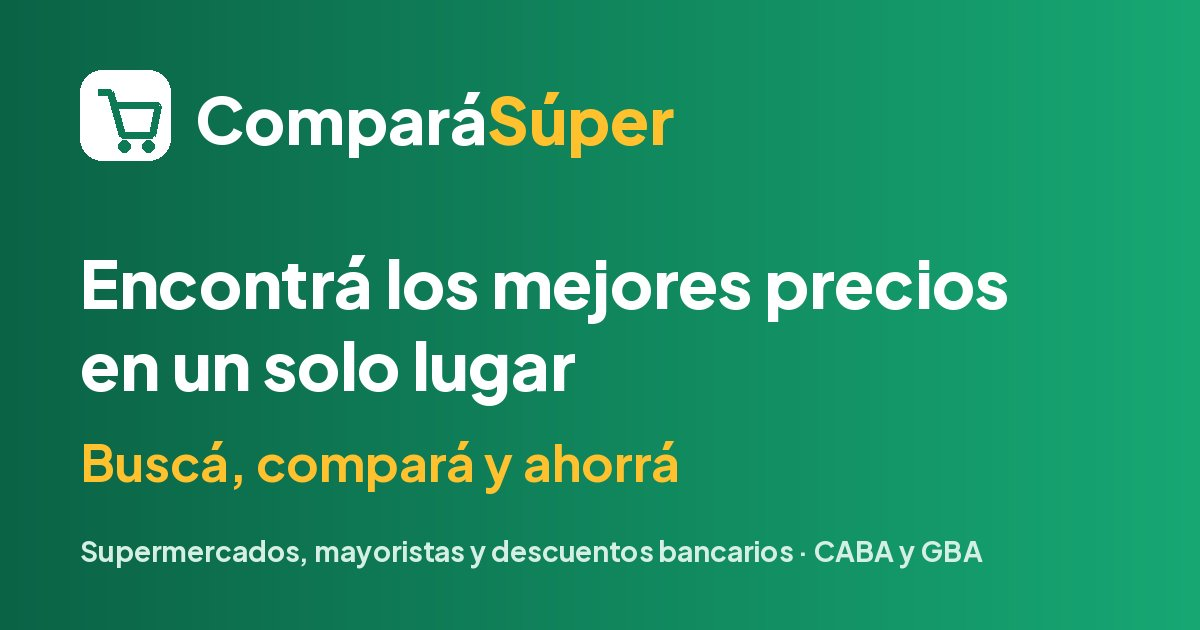
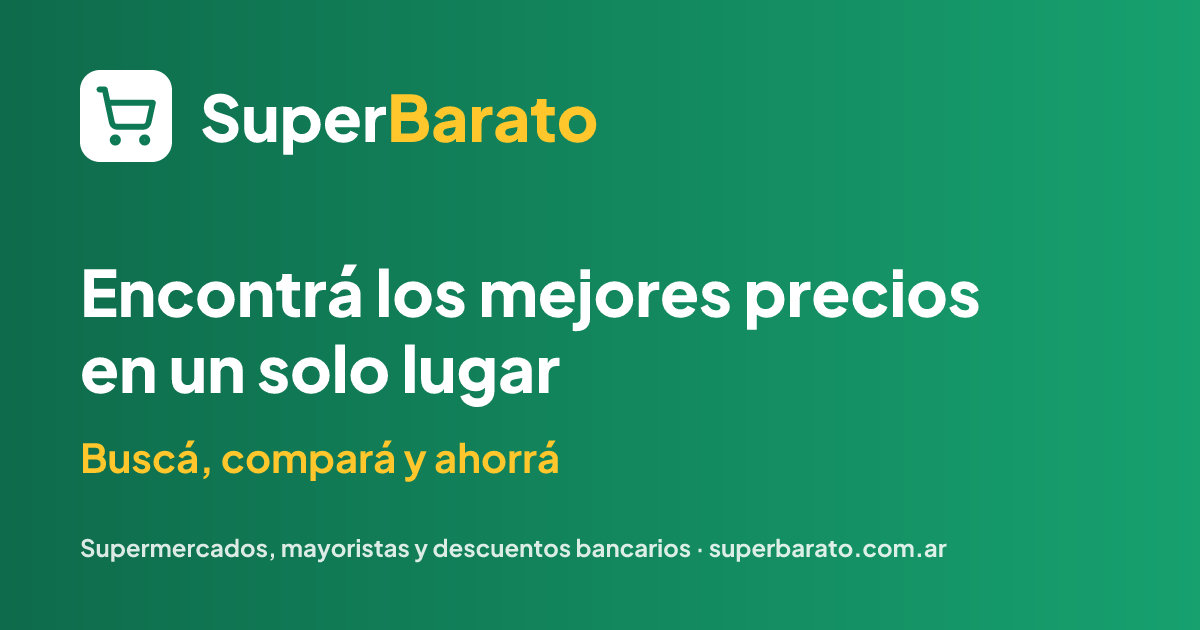
Nuevo nombre SuperBarato y dominio superbarato.com.ar (listo para cuando el dominio esté activo)
Claude-Session: https://claude.ai/code/session_01BWp7WRn68nVfGxPRr3xFBF

diff --git a/site/js/app.js b/site/js/app.js
@@ -1,4 +1,4 @@
-/* ComparáSúper — toda la web en un archivo. Lee site/data/*.json (los arma scripts/build_data.py) y site/config.json. */
+/* SuperBarato — toda la web en un archivo. Lee site/data/*.json (los arma scripts/build_data.py) y site/config.json. */
 "use strict";
 const $ = (s, el = document) => el.querySelector(s);
 const $$ = (s, el = document) => [...el.querySelectorAll(s)];
@@ -856,7 +856,7 @@ function ticketTabla(lineas, res, esLista) {
 }
 
 /* ---------- LISTA DE COMPRAS COMPARTIDA DESDE OTRA APP O PEGADA ----------
-   Con la web instalada, en "Compartir" de WhatsApp, Notas, etc. aparece ComparáSúper (Web Share Target).
+   Con la web instalada, en "Compartir" de WhatsApp, Notas, etc. aparece SuperBarato (Web Share Target).
    Cada renglón ("2 leche", "yerba x1kg", "• aceite") se busca entre los productos. */
 function partirLista(t) {
   return (t || "").split(/\n|,|;|•|·|- (?=\S)/).map(x => x.replace(/^[\s\-*–—>✅☑🔲⬜\d.)]*(?=\D)/u, m => (/^\s*\d+\s*$/.test(m) ? m : m.replace(/[\d.)]/g, ""))).trim()).filter(x => x.length >= 3)
@@ -1085,7 +1085,7 @@ function vNosotros() {
   ];
   $("#view").innerHTML = `<div class="wrap legal nosotros"><section class="blk first">
     <h1>👋 Conocenos</h1>
-    <p>ComparáSúper nació con una idea simple: que hacer las compras del súper cueste menos. Juntamos en un solo lugar los precios de los supermercados y mayoristas, sus ofertas y los descuentos de bancos, billeteras y tarjetas de cada día, para que sepas <b>dónde, qué día y cómo pagar</b> para gastar menos.</p>
+    <p>SuperBarato nació con una idea simple: que hacer las compras del súper cueste menos. Juntamos en un solo lugar los precios de los supermercados y mayoristas, sus ofertas y los descuentos de bancos, billeteras y tarjetas de cada día, para que sepas <b>dónde, qué día y cómo pagar</b> para gastar menos.</p>
     <p>Es un <b>proyecto independiente</b>: no tiene relación comercial con los comercios, las apps ni los bancos que aparecen, y ningún comercio paga para salir primero.</p>
     <h2 id="s-acerca">Acerca de</h2>
     <ul>
@@ -1117,11 +1117,11 @@ function vLegal() {
   const contacto = R.email ? `escribiendo a <a href="mailto:${esc(R.email)}">${esc(R.email)}</a> o desde <a href="#sugerencias">Contacto y sugerencias</a> (aclarando que es un pedido sobre tus datos: no se publica)` : `desde <a href="#sugerencias">Contacto y sugerencias</a>, aclarando que es un pedido sobre tus datos (esos mensajes no se publican)`;
   $("#view").innerHTML = `<div class="wrap legal"><section class="blk first">
     <h1>📄 Términos de uso y privacidad</h1><p class="sub">Última actualización: 15 de noviembre de 2026.</p>
-    <h2>Qué es ComparáSúper</h2>
-    <p>ComparáSúper es un comparador independiente y gratuito de precios de supermercados, mayoristas y tiendas online de ${enAMBA() ? "CABA y GBA" : esc(provNombre(PROV))}. <b>No vende productos</b>, no cobra comisiones y no tiene relación comercial con los comercios, bancos ni billeteras que aparecen. Usar la página implica aceptar estos términos.</p>
+    <h2>Qué es SuperBarato</h2>
+    <p>SuperBarato es un comparador independiente y gratuito de precios de supermercados, mayoristas y tiendas online de ${enAMBA() ? "CABA y GBA" : esc(provNombre(PROV))}. <b>No vende productos</b>, no cobra comisiones y no tiene relación comercial con los comercios, bancos ni billeteras que aparecen. Usar la página implica aceptar estos términos.</p>
     <h2>Precios, descuentos y comparaciones</h2>
     <ul>
-      <li>Los precios de las sucursales salen de la base oficial <b>SEPA (Precios Claros)</b>, que las cadenas informan al Estado nacional. Mostramos el precio más común entre las sucursales de la zona; en tu sucursal puede ser distinto. Esos datos los publica la Subsecretaría de Defensa del Consumidor y Lealtad Comercial con licencia <a href="https://creativecommons.org/licenses/by/4.0/deed.es" target="_blank" rel="noopener">CC BY 4.0</a>; ComparáSúper los procesa, así que lo que mostramos no es la información oficial tal cual.</li>
+      <li>Los precios de las sucursales salen de la base oficial <b>SEPA (Precios Claros)</b>, que las cadenas informan al Estado nacional. Mostramos el precio más común entre las sucursales de la zona; en tu sucursal puede ser distinto. Esos datos los publica la Subsecretaría de Defensa del Consumidor y Lealtad Comercial con licencia <a href="https://creativecommons.org/licenses/by/4.0/deed.es" target="_blank" rel="noopener">CC BY 4.0</a>; SuperBarato los procesa, así que lo que mostramos no es la información oficial tal cual.</li>
       <li>Los precios online salen de las tiendas web de cada cadena y no incluyen el envío; cuando armás tu compra, lo sumamos aparte si la tienda lo informa.</li>
       <li>Los descuentos con bancos, billeteras y tarjetas los relevamos de las páginas oficiales y de notas periodísticas; cada uno indica su fuente y la fecha en que se verificó. Tienen topes, días y condiciones que pueden cambiar sin aviso.</li>
       <li>Las comparaciones (cuál es más barato, el <a href="#ranking">ranking de cadenas</a>, Tu inflación) se calculan con esos datos y con el método que explicamos en cada sección. Son información, no una recomendación de compra.</li>
@@ -1146,7 +1146,7 @@ function vLegal() {
     <p class="sub">El titular de los datos personales tiene la facultad de ejercer el derecho de acceso a los mismos en forma gratuita a intervalos no inferiores a seis meses, salvo que se acredite un interés legítimo al efecto conforme lo establecido en el artículo 14, inciso 3 de la Ley N° 25.326. La Agencia de Acceso a la Información Pública, en su carácter de Órgano de Control de la Ley N° 25.326, tiene la atribución de atender las denuncias y reclamos que interpongan quienes resulten afectados en sus derechos por incumplimiento de las normas vigentes en materia de protección de datos personales.</p>
     <h2>Otras condiciones</h2>
     <ul>
-      <li>El código y el diseño de ComparáSúper son del proyecto. Los datos de precios de SEPA se pueden reutilizar según su licencia CC BY 4.0, citando la fuente.</li>
+      <li>El código y el diseño de SuperBarato son del proyecto. Los datos de precios de SEPA se pueden reutilizar según su licencia CC BY 4.0, citando la fuente.</li>
       <li>Podemos actualizar estos términos; la fecha de arriba indica la última versión.</li>
       <li>Estos términos se rigen por las leyes de la República Argentina.</li>
     </ul>
@@ -1655,7 +1655,7 @@ function shareText(items, bst, day) {
     t += `\n\n💡 Lo más barato el ${DIAS[day].toLowerCase()}: todo en ${optName(bst)}, ${money(bst.total).replace(" ", " ")}`;
     if (bst.pay.promo) t += `\n💳 Pagando con ${medioName(bst.pay.promo)} (${bst.pay.promo.pct}%) — cómo pagar: ${pagoTxt(bst.pay.promo)}`;
   }
-  return t + `\n\nPrecios de ComparáSúper del ${D.updated.split("-").reverse().join("/")}; pueden cambiar.`;
+  return t + `\n\nPrecios de SuperBarato del ${D.updated.split("-").reverse().join("/")}; pueden cambiar.`;
 }
 function siteBase() { if (CFG.sitio_url) return CFG.sitio_url.replace(/#.*$/, ""); return location.href.replace(/#.*$/, ""); }
 const shareLink = items => siteBase() + "#l-" + items.map(({ p, qty }) => `${p.id}-${qty}`).join("-");
@@ -2150,7 +2150,7 @@ function modalNews() {
       <label class="fl">Correo electrónico<input type="email" id="nmail" required autocomplete="email" placeholder="tu@correo.com"></label>
       <fieldset><legend>Quiero recibir</legend>${temas.map(([v, t], i) => `<label class="ck"><input type="checkbox" name="tema" value="${v}" ${i < 2 ? "checked" : ""}> ${t}</label>`).join("")}</fieldset>
       <label class="fl">Zona<select class="sel" id="nzona">${(enAMBA() ? ["CABA", "GBA Norte", "GBA Oeste", "GBA Sur", "La Plata y alrededores"] : [provNombre(PROV)]).concat(PROVINCIAS.map(x => x.name).filter(n => !["Ciudad de Buenos Aires", provNombre(PROV)].includes(n))).map(z => `<option>${esc(z)}</option>`).join("")}</select></label>
-      <label class="ck"><input type="checkbox" id="nok" required> Acepto recibir correos de ComparáSúper y que mi correo se guarde en una planilla de Google para eso. No lo compartimos con nadie. <a href="#legal" data-close>Más detalles</a>.</label>
+      <label class="ck"><input type="checkbox" id="nok" required> Acepto recibir correos de SuperBarato y que mi correo se guarde en una planilla de Google para eso. No lo compartimos con nadie. <a href="#legal" data-close>Más detalles</a>.</label>
       <div class="ferr" id="nerr" role="alert"></div>
       <div class="mfoot"><button type="button" class="btn sec sm" data-close>Cancelar</button><button class="btn" type="submit">Registrarme</button></div>
     </form>`);
@@ -2332,7 +2332,7 @@ function anunciarVista(mover) {
   const h = location.hash.slice(1) || "inicio"; if (h.startsWith("p-")) return;
   const v = h.split(/[-?=]/)[0], h1 = $("#view h1");
   const nom = h1 ? h1.textContent.replace(/^[^\p{L}\d]+/u, "").trim() : "";
-  document.title = v === "inicio" || !nom ? TITULO0 : `${nom} · ComparáSúper`;
+  document.title = v === "inicio" || !nom ? TITULO0 : `${nom} · SuperBarato`;
   const quieto = /^(INPUT|TEXTAREA|SELECT)$/.test((document.activeElement || {}).tagName || "") || !$("#drawer").hidden || !$("#modal").hidden;
   if (mover && v !== VISTA_ANT && h1 && !quieto) { h1.tabIndex = -1; h1.focus({ preventScroll: true }); }
   if (h1) VISTA_ANT = v;
@@ -2624,7 +2624,7 @@ const saveFav = () => LS.set("cs_fav", [...FAV]);
 /* ---------- bienvenida y configuración en 3 preguntas ---------- */
 function modalBienvenida() {
   LS.set("cs_bienvenida", 1);
-  openModal(`<div class="wel"><div class="wic">👋</div><h2>¡Bienvenido a ComparáSúper!</h2>
+  openModal(`<div class="wel"><div class="wic">👋</div><h2>¡Bienvenido a SuperBarato!</h2>
     <p>Compará el mismo producto en ${D.stores.length} supermercados y mayoristas, con sus ofertas y los descuentos de tu banco o billetera según el día.</p>
     <p class="sub">Si contestás 3 preguntas (menos de un minuto), te mostramos los precios y descuentos que te sirven a vos.</p>
     <div class="wbtns"><button class="btn" id="wconf">⚙ Configurar en 3 preguntas</button><button class="btn sec" id="wtour">🧭 Ver la guía rápida</button><button class="linkbtn" data-close>Ahora no</button></div></div>`);
@@ -2799,7 +2799,7 @@ function modalAgendar(id) {
   const desc = `${pr.pct ? pr.pct + "% de descuento" : pr.cuotas + " cuotas"} · ${topeTxt(pr)}. Cómo pagar: ${pagoTxt(pr)}. Vigente hasta el ${pr.hasta.split("-").reverse().join("/")}. Más info: ${(CFG.sitio_url || location.href.split("#")[0])}#pagos`;
   const rrule = `RRULE:FREQ=WEEKLY;BYDAY=${pr.dias.map(i => ICSD[i]).join(",")};UNTIL=${hasta}`;
   const gurl = `https://calendar.google.com/calendar/render?action=TEMPLATE&text=${encodeURIComponent("🛒 " + tit)}&dates=${ymd(d0)}/${ymd(d1)}&details=${encodeURIComponent(desc)}&recur=${encodeURIComponent(rrule)}`;
-  const ics = ["BEGIN:VCALENDAR", "VERSION:2.0", "PRODID:-//ComparaSuper//ES", "BEGIN:VEVENT", `UID:${pr.id}-${Date.now()}@comparasuper`, `DTSTAMP:${new Date().toISOString().replace(/[-:]/g, "").slice(0, 15)}Z`,
+  const ics = ["BEGIN:VCALENDAR", "VERSION:2.0", "PRODID:-//SuperBarato//ES", "BEGIN:VEVENT", `UID:${pr.id}-${Date.now()}@superbarato.com.ar`, `DTSTAMP:${new Date().toISOString().replace(/[-:]/g, "").slice(0, 15)}Z`,
     `DTSTART;VALUE=DATE:${ymd(d0)}`, `DTEND;VALUE=DATE:${ymd(d1)}`, rrule, `SUMMARY:🛒 ${tit.replace(/[,;]/g, " ")}`, `DESCRIPTION:${desc.replace(/[,;]/g, " ").replace(/\n/g, "\\n")}`,
     "BEGIN:VALARM", "TRIGGER:-PT15H", "ACTION:DISPLAY", "DESCRIPTION:Hoy hay descuento en el súper", "END:VALARM", "END:VEVENT", "END:VCALENDAR"].join("\r\n");
   const url = URL.createObjectURL(new Blob([ics], { type: "text/calendar" }));
@@ -2888,12 +2888,12 @@ function vComparar() {
 /* ---------- instalar como app ---------- */
 let INSTALL = null;
 addEventListener("beforeinstallprompt", e => { e.preventDefault(); INSTALL = e; $$(".inst").forEach(x => (x.hidden = false)); });
-addEventListener("appinstalled", () => { INSTALL = null; $$(".inst").forEach(x => (x.hidden = true)); toast("¡Listo! ComparáSúper quedó instalada"); });
+addEventListener("appinstalled", () => { INSTALL = null; $$(".inst").forEach(x => (x.hidden = true)); toast("¡Listo! SuperBarato quedó instalada"); });
 const yaInstalada = () => matchMedia("(display-mode: standalone)").matches || navigator.standalone;
 async function instalar() {
   if (INSTALL) { INSTALL.prompt(); await INSTALL.userChoice; INSTALL = null; return; }
   const ios = /iphone|ipad|ipod/i.test(navigator.userAgent);
-  openModal(`<h2>📲 Instalar ComparáSúper</h2><p>Queda un ícono en la pantalla de tu celular, abre más rápido y podés ver tu carrito aunque no tengas señal en el súper.</p>
+  openModal(`<h2>📲 Instalar SuperBarato</h2><p>Queda un ícono en la pantalla de tu celular, abre más rápido y podés ver tu carrito aunque no tengas señal en el súper.</p>
     ${ios ? `<ol class="steps"><li>Abrí esta página en <b>Safari</b>.</li><li>Tocá el botón <b>Compartir</b> (el cuadrado con la flecha hacia arriba).</li><li>Elegí <b>«Agregar a inicio»</b> y tocá <b>Agregar</b>.</li></ol>`
       : `<ol class="steps"><li>Abrí el menú del navegador (los tres puntitos <b>⋮</b>).</li><li>Tocá <b>«Instalar app»</b> o <b>«Agregar a la pantalla principal»</b>.</li><li>Confirmá con <b>Instalar</b>.</li></ol>`}
     <div class="mfoot"><span></span><button class="btn" data-close>Entendido</button></div>`);
@@ -2972,7 +2972,7 @@ async function botAsk(q) { BOT.msgs.push({ who: "u", html: esc(q) }); botRender(
 function botOpen(open) {
   $("#chat").hidden = !open; $("#botbtn").setAttribute("aria-expanded", open);
   if (open) ovOpen("chat", () => botOpen(false)); else ovDone("chat");
-  if (open && !BOT.msgs.length) { BOT.msgs.push({ who: "b", html: "¡Hola! Soy el asistente de ComparáSúper. Te ayudo a encontrar precios, descuentos por día y banco, y a usar la página. ¿Qué necesitás?" }); botRender(); }
+  if (open && !BOT.msgs.length) { BOT.msgs.push({ who: "b", html: "¡Hola! Soy el asistente de SuperBarato. Te ayudo a encontrar precios, descuentos por día y banco, y a usar la página. ¿Qué necesitás?" }); botRender(); }
   if (open) $("#chq").focus();
 }
 $("#botbtn").onclick = () => botOpen($("#chat").hidden);

diff --git a/site/index.html b/site/index.html
@@ -3,20 +3,20 @@
 <head>
 <meta charset="utf-8">
 <meta name="viewport" content="width=device-width, initial-scale=1">
-<title>ComparáSúper · Precios de supermercados</title>
+<title>SuperBarato · Precios de supermercados</title>
 <meta name="google-site-verification" content="24iJAJs0mW4ACd0ENeoT0kQnPo67h7M31oHgKuBHy18">
 <meta name="description" content="Compará precios de supermercados, mayoristas y apps de todo el país: el mismo producto en cada comercio, en el local y online, ofertas vigentes y descuentos por medio de pago de cada día.">
 <meta name="theme-color" content="#0e7a55">
 <link rel="manifest" href="manifest.webmanifest">
 <link rel="apple-touch-icon" href="img/icon-192.png">
 <meta name="apple-mobile-web-app-capable" content="yes">
-<meta name="apple-mobile-web-app-title" content="ComparáSúper">
+<meta name="apple-mobile-web-app-title" content="SuperBarato">
 <meta property="og:type" content="website">
-<meta property="og:site_name" content="ComparáSúper">
-<meta property="og:title" content="ComparáSúper · Encontrá los mejores precios en un solo lugar">
+<meta property="og:site_name" content="SuperBarato">
+<meta property="og:title" content="SuperBarato · Encontrá los mejores precios en un solo lugar">
 <meta property="og:description" content="Compará precios de supermercados y mayoristas de todas las provincias, ofertas y descuentos de bancos y billeteras de cada día.">
-<meta property="og:url" content="https://brunogagna9-stack.github.io/ComparaSuper/">
-<meta property="og:image" content="https://brunogagna9-stack.github.io/ComparaSuper/img/og.png">
+<meta property="og:url" content="https://superbarato.com.ar/">
+<meta property="og:image" content="https://superbarato.com.ar/img/og.png">
 <meta name="twitter:card" content="summary_large_image">
 <script>try{var t=JSON.parse(localStorage.getItem("cs_tema"));if(t)document.documentElement.dataset.theme=t}catch(e){}</script>
 <link rel="preload" href="fonts/plus-jakarta-sans-latin-wght-normal.woff2" as="font" type="font/woff2" crossorigin>
@@ -32,7 +32,7 @@
 <div id="pocos" class="demo" hidden></div>
 <header class="site">
   <div class="hin">
-    <a class="logo" href="#inicio" aria-label="ComparáSúper, ir al inicio"><span class="lg-ic" aria-hidden="true">🛒</span><span class="lt">Compará<span>Súper</span></span></a>
+    <a class="logo" href="#inicio" aria-label="SuperBarato, ir al inicio"><span class="lg-ic" aria-hidden="true">🛒</span><span class="lt">Super<span>Barato</span></span></a>
     <form class="hsearch" id="hform" role="search">
       <svg viewBox="0 0 24 24" aria-hidden="true"><circle cx="11" cy="11" r="7"/><path d="m20 20-3.5-3.5"/></svg>
       <input id="q" type="search" placeholder="Buscá: leche, yerba, aceite…" aria-label="Buscar productos" autocomplete="off" role="combobox" aria-expanded="false" aria-controls="qsug" aria-autocomplete="list">
@@ -76,15 +76,15 @@
 
 <footer class="site">
   <div class="fin">
-    <div class="fbrand"><div class="flogo">Compará<span>Súper</span></div>
+    <div class="fbrand"><div class="flogo">Super<span>Barato</span></div>
       <p>Compará precios de supermercados y mayoristas de todo el país, con sus ofertas y los descuentos de tu banco o billetera de cada día.</p>
       <p><button class="btn sm" data-news><svg class="ic" aria-hidden="true"><use href="#i-mail"/></svg> Recibir novedades por correo</button></p></div>
-    <nav aria-label="ComparáSúper"><h4>ComparáSúper</h4>
+    <nav aria-label="SuperBarato"><h4>SuperBarato</h4>
       <a href="#nosotros">Conocenos</a><a href="#nosotros-acerca">Acerca de</a><a href="#como">Cómo funciona</a><a href="#nosotros-datos">De dónde salen los precios</a><a href="#nosotros-preguntas">Preguntas frecuentes</a></nav>
     <nav aria-label="Ayuda y legales"><h4>Ayuda y legales</h4>
       <a href="#sugerencias">Contacto y sugerencias</a><a href="#legal">Términos de uso</a><a href="#legal-privacidad">Política de privacidad</a><a href="#nosotros-aviso">Aviso sobre precios</a></nav>
   </div>
-  <div class="fbot"><span>© <span id="year"></span> ComparáSúper · Proyecto independiente, sin relación comercial con los comercios, las apps ni los bancos.</span>
+  <div class="fbot"><span>© <span id="year"></span> SuperBarato · Proyecto independiente, sin relación comercial con los comercios, las apps ni los bancos.</span>
     <span class="flic">Precios de sucursales: <a href="https://datos.gob.ar/dataset/produccion-precios-claros---base-sepa" target="_blank" rel="noopener">Precios Claros – Base SEPA</a>, Subsecretaría de Defensa del Consumidor y Lealtad Comercial, con licencia <a href="https://creativecommons.org/licenses/by/4.0/deed.es" target="_blank" rel="noopener">CC BY 4.0</a>. Los procesamos (precio más común por zona, cruce por código de barras) y no son datos oficiales tal como los mostramos.</span><span id="fupd"></span></div>
 </footer>
 
@@ -123,7 +123,7 @@
   <button class="fab bot" id="botbtn" type="button" aria-controls="chat" aria-expanded="false" title="Asistente virtual"><span class="fi" aria-hidden="true"><svg class="ic" aria-hidden="true"><use href="#i-bot"/></svg></span><span class="ft">Asistente virtual</span></button>
 </div>
 <section class="chat" id="chat" role="dialog" aria-label="Asistente virtual" hidden>
-  <div class="chh"><span class="fi"><svg class="ic" aria-hidden="true"><use href="#i-bot"/></svg></span><div><b>Asistente de ComparáSúper</b><small>Te ayudo con precios, descuentos y cómo usar la página</small></div><button class="x" id="chatx" type="button" aria-label="Cerrar el asistente">✕</button></div>
+  <div class="chh"><span class="fi"><svg class="ic" aria-hidden="true"><use href="#i-bot"/></svg></span><div><b>Asistente de SuperBarato</b><small>Te ayudo con precios, descuentos y cómo usar la página</small></div><button class="x" id="chatx" type="button" aria-label="Cerrar el asistente">✕</button></div>
   <div class="chm" id="chm" aria-live="polite"></div>
   <form class="chf" id="chf"><input id="chq" type="text" placeholder="Escribí tu pregunta…" autocomplete="off" aria-label="Tu pregunta"><button class="btn sm" type="submit">Enviar</button></form>
 </section>

diff --git a/site/js/mapa.js b/site/js/mapa.js
@@ -1,4 +1,4 @@
-/* ComparáSúper — pantalla para elegir la provincia (mapa 3D con fotos, alfiler y zoom).
+/* SuperBarato — pantalla para elegir la provincia (mapa 3D con fotos, alfiler y zoom).
    Uso: abrirMapa({ actual: "AR-X", primera: true }) → Promise con el código elegido ("AR-X") o null si se cerró. */
 (function () {
   const PROVS = [
@@ -125,7 +125,7 @@
     const root = document.createElement("div");
     root.id = "pmapa"; root.setAttribute("role", "dialog"); root.setAttribute("aria-modal", "true"); root.setAttribute("aria-label", "Elegí tu provincia");
     root.innerHTML = `<div class="pm-in">
-      <div class="pm-top"><div class="pm-logo">🛒 Compará<span>Súper</span></div>${primera ? "" : '<button class="pm-x" type="button" data-pmx>✕ Cerrar</button>'}</div>
+      <div class="pm-top"><div class="pm-logo">🛒 Super<span>Barato</span></div>${primera ? "" : '<button class="pm-x" type="button" data-pmx>✕ Cerrar</button>'}</div>
       <h1>${primera ? "¡Bienvenido! ¿Desde qué provincia comprás?" : "Cambiar de provincia"}</h1>
       <p class="pm-sub">Elegí tu provincia en el mapa (o en la lista) y te mostramos solo los supermercados, precios y descuentos de ahí. La podés cambiar cuando quieras desde el botón 🗺 de arriba.</p>
       <div class="pm-box"><div class="mapwrap">

diff --git a/site/404.html b/site/404.html
@@ -4,8 +4,8 @@
 <meta charset="utf-8">
 <meta name="viewport" content="width=device-width, initial-scale=1">
 <meta name="robots" content="noindex">
-<title>Página no encontrada · ComparáSúper</title>
-<link rel="icon" type="image/png" href="/ComparaSuper/img/icon-192.png">
+<title>Página no encontrada · SuperBarato</title>
+<link rel="icon" type="image/png" href="/img/icon-192.png">
 <meta name="theme-color" content="#0e7a55">
 <style>
   body{margin:0;min-height:100vh;display:flex;align-items:center;justify-content:center;background:#f4f6f5;color:#1f2937;font:16px/1.5 system-ui,-apple-system,"Segoe UI",Roboto,sans-serif;padding:24px;box-sizing:border-box}
@@ -25,8 +25,8 @@
   <div class="e" aria-hidden="true">🛒</div>
   <h1>No encontramos esta página</h1>
   <p>Puede que el enlace esté mal escrito o que el producto ya no esté en la lista.</p>
-  <a class="b" href="/ComparaSuper/">Ir a ComparáSúper</a>
-  <div class="s"><a href="/ComparaSuper/#buscar">Buscar un producto</a></div>
+  <a class="b" href="/">Ir a SuperBarato</a>
+  <div class="s"><a href="/#buscar">Buscar un producto</a></div>
 </main>
 </body>
 </html>

diff --git a/site/sw.js b/site/sw.js
@@ -1,4 +1,4 @@
-/* ComparáSúper: funciona sin internet con lo último que se vio (por ejemplo, adentro del súper sin señal).
+/* SuperBarato: funciona sin internet con lo último que se vio (por ejemplo, adentro del súper sin señal).
    Usa Workbox (de Google, código abierto, licencia MIT), guardado en js/vendor/workbox/.
    - Página, código y datos de precios: primero la red (siempre lo más nuevo); si no hay señal o tarda
      demasiado, lo guardado.

diff --git a/playwright.config.js b/playwright.config.js
@@ -1,4 +1,4 @@
-// Pruebas automáticas de ComparáSúper (Playwright, de Microsoft, código abierto).
+// Pruebas automáticas de SuperBarato (Playwright, de Microsoft, código abierto).
 // Corren solas en GitHub antes de publicar cada cambio de la web, en PC y en celular.
 // Para correrlas en tu compu: npm install && npx playwright install chromium && npm test
 const { defineConfig, devices } = require("@playwright/test");

diff --git a/site/js/datos.js b/site/js/datos.js
@@ -1,4 +1,4 @@
-/* ComparáSúper: lee el archivo de productos. Lo usan la página y el proceso de fondo (buscador.js).
+/* SuperBarato: lee el archivo de productos. Lo usan la página y el proceso de fondo (buscador.js).
    Entiende los dos formatos: el de siempre ({products: [...]}) y el "por columnas" (v2), que arma
    scripts/build_data.py: pesa menos y se lee más rápido. */
 (function (g) {

diff --git a/site/js/buscador.js b/site/js/buscador.js
@@ -1,4 +1,4 @@
-/* ComparáSúper: proceso de fondo (Web Worker).
+/* SuperBarato: proceso de fondo (Web Worker).
    Baja y lee los productos y arma el índice del buscador SIN trabar la pantalla: la página
    solo recibe la lista ya lista y le pregunta qué productos coinciden con lo que escribiste.
    Buscador: MiniSearch (licencia MIT, js/vendor/minisearch.js) con tolerancia a errores de

diff --git a/scripts/make_pages.py b/scripts/make_pages.py
@@ -42,15 +42,15 @@ def main():
             h, iid, f = img.split("/", 2)
             img = f"https://{hosts[int(h)]}/arquivos/ids/{iid}-300-300/{f}"
         t = html.escape(f"{p['name']}: desde {money(v)} en {stores.get(s, s)}")
-        desc = html.escape(f"Compará el precio en {len(p['offers'])} supermercados de CABA y GBA, con ofertas y descuentos por banco y billetera. ComparáSúper.")
+        desc = html.escape(f"Compará el precio en {len(p['offers'])} supermercados de CABA y GBA, con ofertas y descuentos por banco y billetera. SuperBarato.")
         dest = f"../#p-{p['id']}"
         if p["id"] in con_og:
             og.append({"id": p["id"], "name": p["name"], "precio": money(v), "store": stores.get(s, s), "n": len(p["offers"]), "img": img})
             img = f"{url}og/{p['id']}.jpg"
         page = f"""<!DOCTYPE html><html lang="es-AR"><head><meta charset="utf-8"><meta name="viewport" content="width=device-width,initial-scale=1">
-<title>{t} · ComparáSúper</title><meta name="description" content="{desc}">
+<title>{t} · SuperBarato</title><meta name="description" content="{desc}">
 <link rel="canonical" href="{url}p/{p['id']}.html">
-<meta property="og:type" content="product"><meta property="og:site_name" content="ComparáSúper"><meta property="og:title" content="{t}">
+<meta property="og:type" content="product"><meta property="og:site_name" content="SuperBarato"><meta property="og:title" content="{t}">
 <meta property="og:description" content="{desc}"><meta property="og:url" content="{url}p/{p['id']}.html">{f'<meta property="og:image" content="{html.escape(img)}">' if img else ""}
 <meta name="twitter:card" content="{'summary_large_image' if p['id'] in con_og else 'summary'}">{'<meta property="og:image:width" content="800"><meta property="og:image:height" content="420">' if p['id'] in con_og else ""}
 <meta http-equiv="refresh" content="0;url={dest}"><script>location.replace("{dest}")</script></head>

diff --git a/scripts/sepa_fetch.py b/scripts/sepa_fetch.py
@@ -31,7 +31,7 @@ CKAN = "https://datos.produccion.gob.ar/api/3/action/package_show?id={}"
 DATASETS = [("sepa-precios", True, "minoristas"), ("precios-claros-sepa-mayoristas", False, "mayoristas")]   # (id, obligatoria, base)
 PROVINCIAS = ["AR-C", "AR-B"]   # CABA y provincia de Buenos Aires (códigos ISO 3166-2)
 REGION = "CABA y provincia de Buenos Aires"
-UA = {"User-Agent": "ComparaSuper/0.1 (comparador independiente de precios)"}
+UA = {"User-Agent": "SuperBarato/0.1 (comparador independiente de precios)"}
 MIN_SUCURSALES = 2
 EXTRA_DIAS = 2       # cuántos días anteriores se revisan para completar cadenas que faltan en el archivo de hoy
 MAYORISTAS = set()   # se completa con data/stores.json (tipo "mayorista")              # un precio informado por una sola sucursal no se publica

diff --git a/scripts/online_fetch.py b/scripts/online_fetch.py
@@ -19,7 +19,7 @@ from concurrent.futures import ThreadPoolExecutor
 from pathlib import Path
 
 ROOT = Path(__file__).resolve().parent.parent
-UA = {"User-Agent": "Mozilla/5.0 (compatible; ComparaSuper/0.2; comparador independiente de precios)", "Accept": "application/json"}
+UA = {"User-Agent": "Mozilla/5.0 (compatible; SuperBarato/0.2; comparador independiente de precios)", "Accept": "application/json"}
 LOTE = 50            # códigos por consulta
 PAUSA = 0.4          # segundos entre consultas a una misma tienda
 MAX_ERRORES = 15

diff --git a/scripts/revisar_promos.py b/scripts/revisar_promos.py
@@ -15,7 +15,7 @@ from pathlib import Path
 
 ROOT = Path(__file__).resolve().parent.parent
 DATA = ROOT / "data"
-UA = {"User-Agent": "Mozilla/5.0 (compatible; ComparaSuper/0.3; revisión de promociones)"}
+UA = {"User-Agent": "Mozilla/5.0 (compatible; SuperBarato/0.3; revisión de promociones)"}
 DIAS = int(sys.argv[1]) if len(sys.argv) > 1 else 10
 
 
